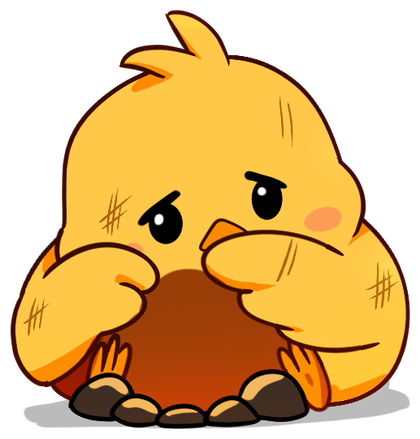
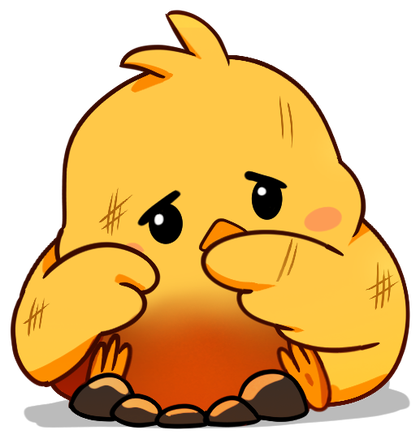
Bêta : danger actualisé, flamme un peu plus haut et à droite

Changed region(s): [[0.2786, 0.5923, 0.681, 0.9476], [0.65, 0.5923, 0.681, 0.6515]]

diff --git a/beta/index.html b/beta/index.html
@@ -1659,7 +1659,7 @@
   .hero-flamme{position:absolute; right:6px; top:-40px; z-index:4; width:40px; height:50px; transform-origin:50% 100%;
     transition:transform .4s ease, opacity .4s ease, right .4s ease;}
   /* en danger, elle revient sous le poussin, centree sur lui : il la protege */
-  .under-hero:has(.hero-poussin[data-pose="danger"]) .hero-flamme{right:52px; opacity:1; transform:scale(.55);}
+  .under-hero:has(.hero-poussin[data-pose="danger"]) .hero-flamme{right:50px; top:-44px; opacity:1; transform:scale(.55);}
   .hero-poussin[data-pose="danger"]{width:88px; right:22px;}
   .hero-flamme .fe{position:absolute; inset:0; width:100%; height:100%; object-fit:contain;}
   /* Le chiffre de la flamme dans une police ronde et pleine (Fredoka, licence OFL) : seuls
@@ -9319,7 +9319,7 @@ function exIcon(ex, sm){
 }
 
 const KEY="tonnage_v1";
-const BUILD = "21 septembre 2026 23h50 · bêta";   /* remplacé par build.ps1 : date et heure de la construction */
+const BUILD = "21 septembre 2026 23h55 · bêta";   /* remplacé par build.ps1 : date et heure de la construction */
 
 const MARK = "tonnage_marker";
 /* diagnostic : que survit-il entre deux ouvertures ? */

diff --git a/beta/sw.js b/beta/sw.js
@@ -1,5 +1,5 @@
 /* Tonnup — service worker : l'app marche hors ligne et se met à jour toute seule. */
-const CACHE = "tonnup-beta-v10-20260921-2350";
+const CACHE = "tonnup-beta-v10-20260921-2355";
 const ASSETS = ["./", "./index.html", "./manifest.webmanifest", "./confidentialite.html", "./conditions.html", "./icon-192.png", "./icon-512.png", "./apple-touch-icon.png",
   "./img/exos/abducteurs.png",
   "./img/exos/abduction-hanche.png",
